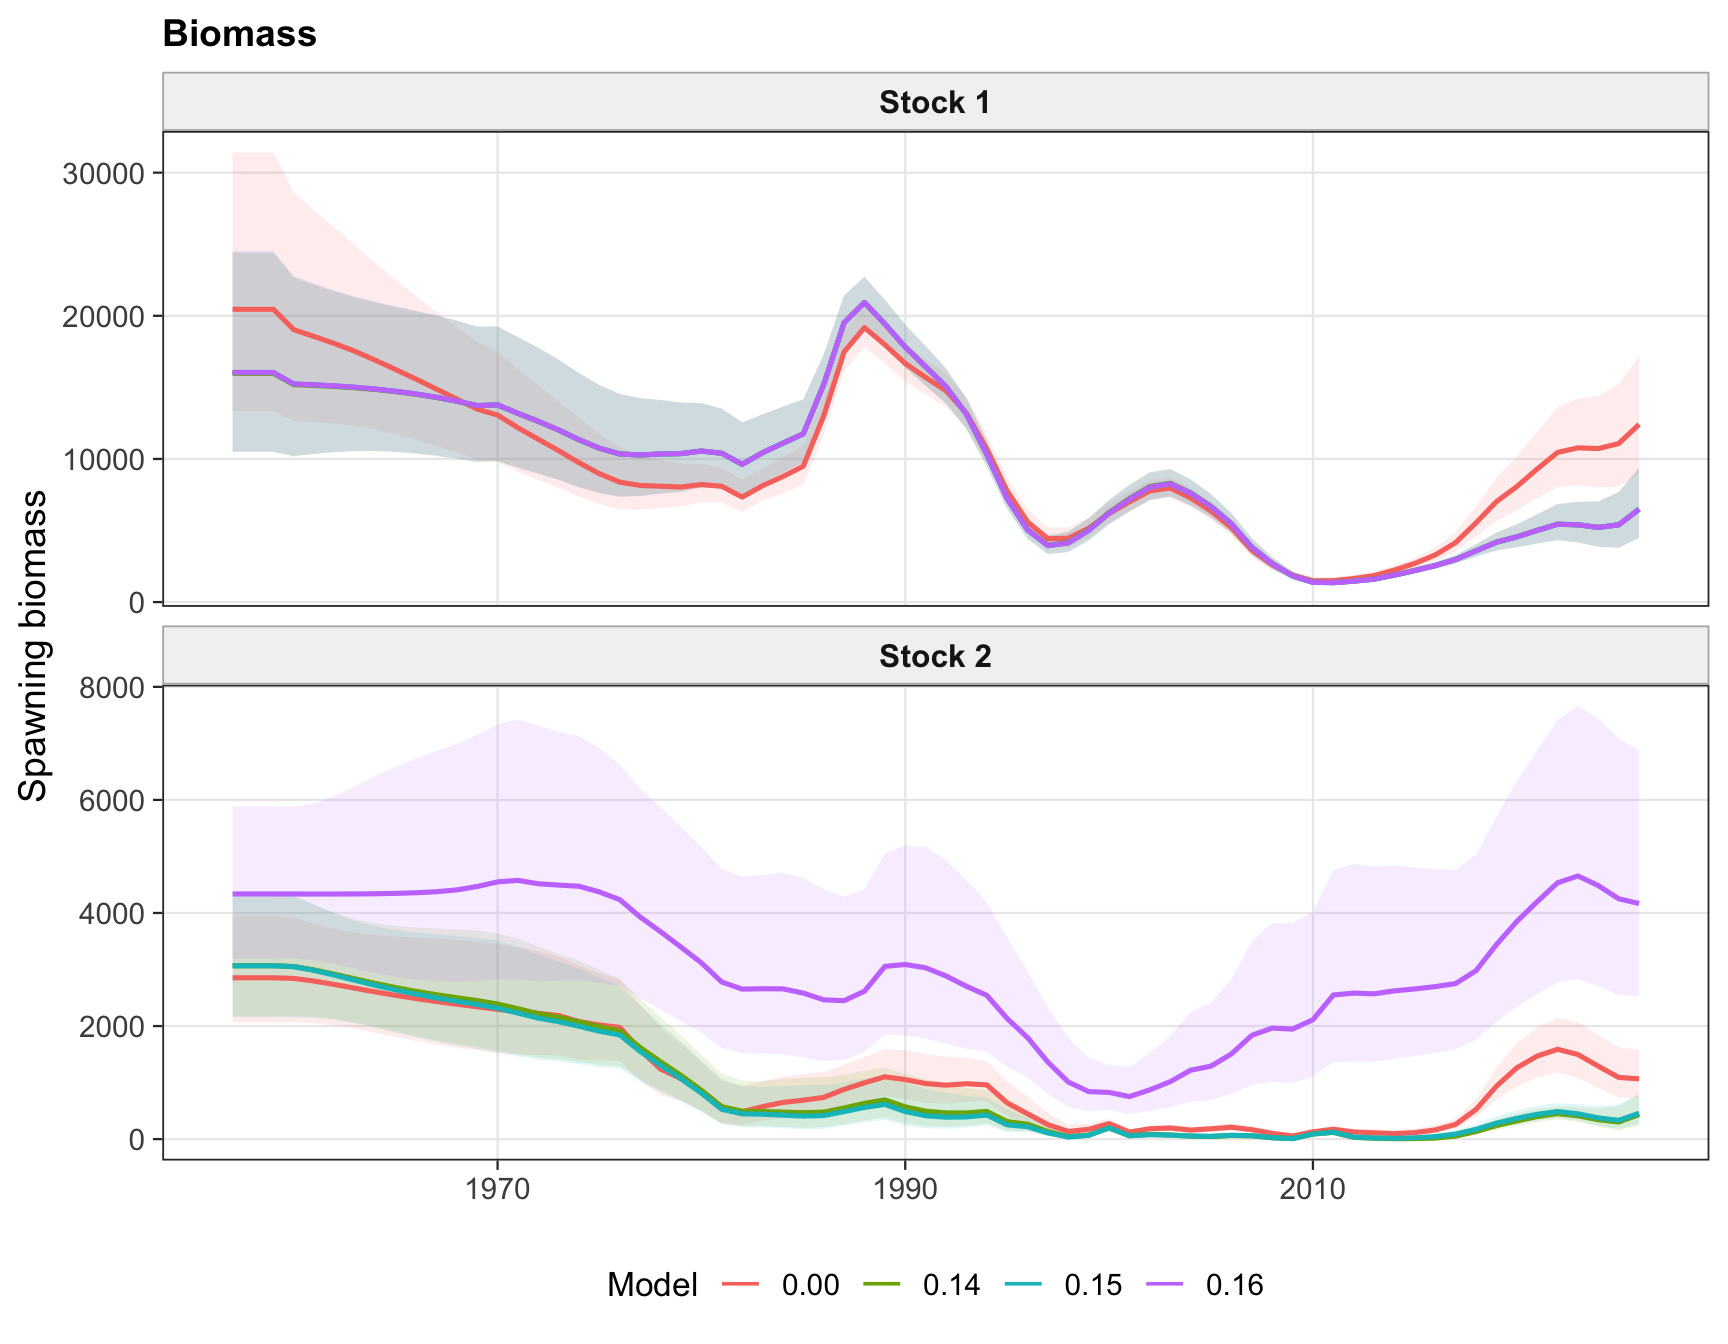
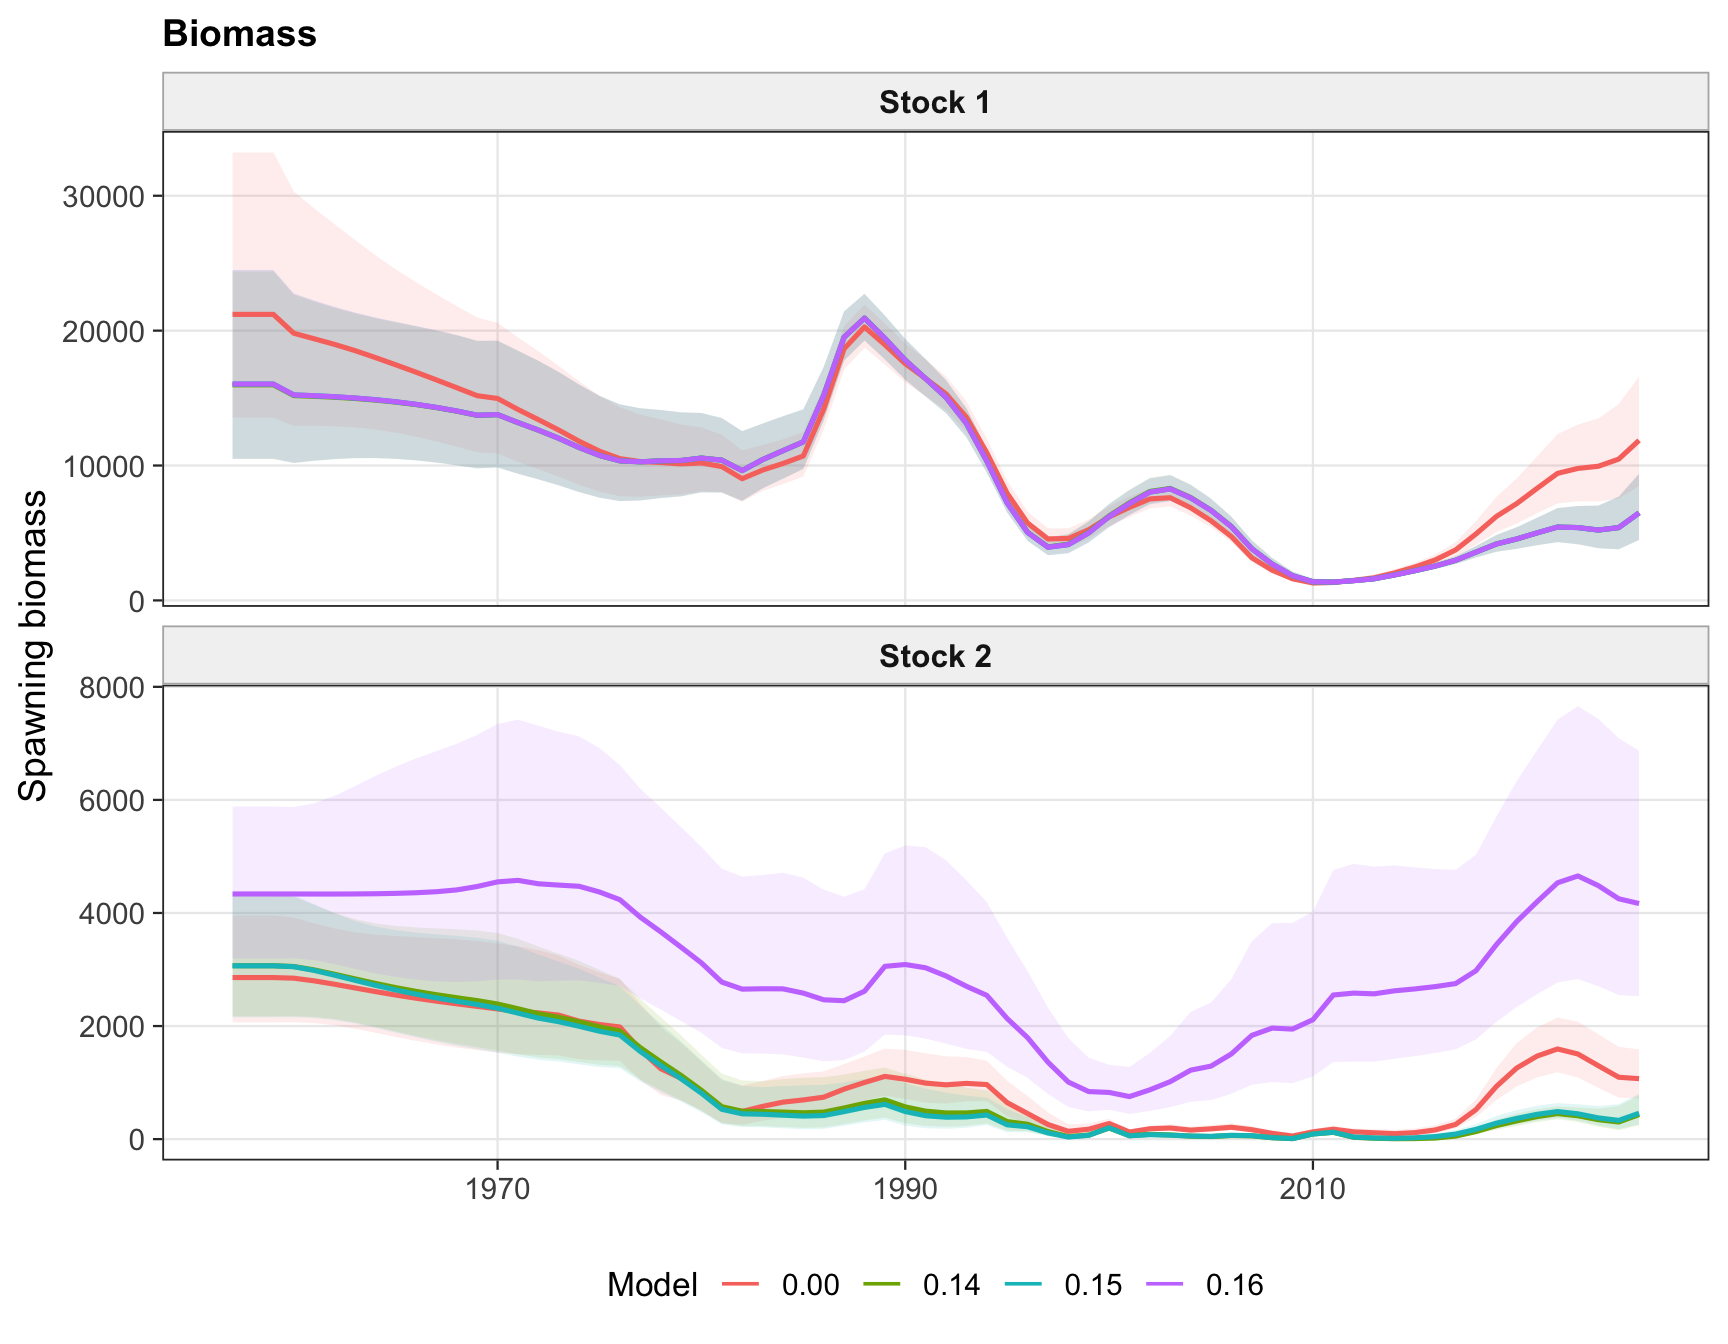
Update Paper 01 h2 rerun results

diff --git a/docs/SCW17-Paper-01-ModelDevelopments.html b/docs/SCW17-Paper-01-ModelDevelopments.html
@@ -6,7 +6,7 @@
 
 <meta name="viewport" content="width=device-width, initial-scale=1.0, user-scalable=yes">
 
-<meta name="dcterms.date" content="2026-06-08">
+<meta name="dcterms.date" content="2026-06-09">
 
 <title>Model developments</title>
 <style>
@@ -239,7 +239,7 @@ window.Quarto = {
     <div>
     <div class="quarto-title-meta-heading">Published</div>
     <div class="quarto-title-meta-contents">
-      <p class="date">June 8, 2026</p>
+      <p class="date">June 9, 2026</p>
     </div>
   </div>
   
@@ -1027,8 +1027,8 @@ Table&nbsp;5: Negative log-likelihood and maximum gradient for available model f
 <td style="text-align: left;">0.00</td>
 <td style="text-align: left;">h2_0.00</td>
 <td style="text-align: right;">1648</td>
-<td style="text-align: right;">1252.719</td>
-<td style="text-align: right;">0.0002564</td>
+<td style="text-align: right;">1197.202</td>
+<td style="text-align: right;">0.0002031</td>
 </tr>
 <tr class="odd">
 <td style="text-align: left;">h1</td>
@@ -1141,20 +1141,20 @@ Table&nbsp;6: Terminal-year metrics for available model results.
 <td style="text-align: left;">0.00</td>
 <td style="text-align: left;">Stock_1</td>
 <td style="text-align: left;">2025</td>
-<td style="text-align: right;">11074</td>
-<td style="text-align: right;">16424</td>
-<td style="text-align: right;">15257</td>
-<td style="text-align: right;">0.596</td>
+<td style="text-align: right;">10474</td>
+<td style="text-align: right;">15630</td>
+<td style="text-align: right;">15028</td>
+<td style="text-align: right;">0.684</td>
 </tr>
 <tr class="odd">
 <td style="text-align: left;">h2</td>
 <td style="text-align: left;">0.00</td>
 <td style="text-align: left;">Stock_2</td>
 <td style="text-align: left;">2025</td>
-<td style="text-align: right;">1091</td>
-<td style="text-align: right;">1713</td>
-<td style="text-align: right;">1168</td>
-<td style="text-align: right;">0.475</td>
+<td style="text-align: right;">1095</td>
+<td style="text-align: right;">1726</td>
+<td style="text-align: right;">1176</td>
+<td style="text-align: right;">0.494</td>
 </tr>
 <tr class="even">
 <td style="text-align: left;">h1</td>
@@ -1301,20 +1301,20 @@ Table&nbsp;7: Terminal-year percent difference relative to 0.14 for available mo
 <td style="text-align: left;">0.00</td>
 <td style="text-align: left;">Stock_1</td>
 <td style="text-align: left;">2025</td>
-<td style="text-align: right;">105.2</td>
-<td style="text-align: right;">82.0</td>
-<td style="text-align: right;">30.3</td>
-<td style="text-align: right;">-67.1</td>
+<td style="text-align: right;">94.0</td>
+<td style="text-align: right;">73.2</td>
+<td style="text-align: right;">28.3</td>
+<td style="text-align: right;">-62.3</td>
 </tr>
 <tr class="odd">
 <td style="text-align: left;">h2</td>
 <td style="text-align: left;">0.00</td>
 <td style="text-align: left;">Stock_2</td>
 <td style="text-align: left;">2025</td>
-<td style="text-align: right;">260.1</td>
-<td style="text-align: right;">145.5</td>
-<td style="text-align: right;">17.1</td>
-<td style="text-align: right;">-75.6</td>
+<td style="text-align: right;">261.3</td>
+<td style="text-align: right;">147.5</td>
+<td style="text-align: right;">17.9</td>
+<td style="text-align: right;">-74.7</td>
 </tr>
 <tr class="even">
 <td style="text-align: left;">h1</td>
